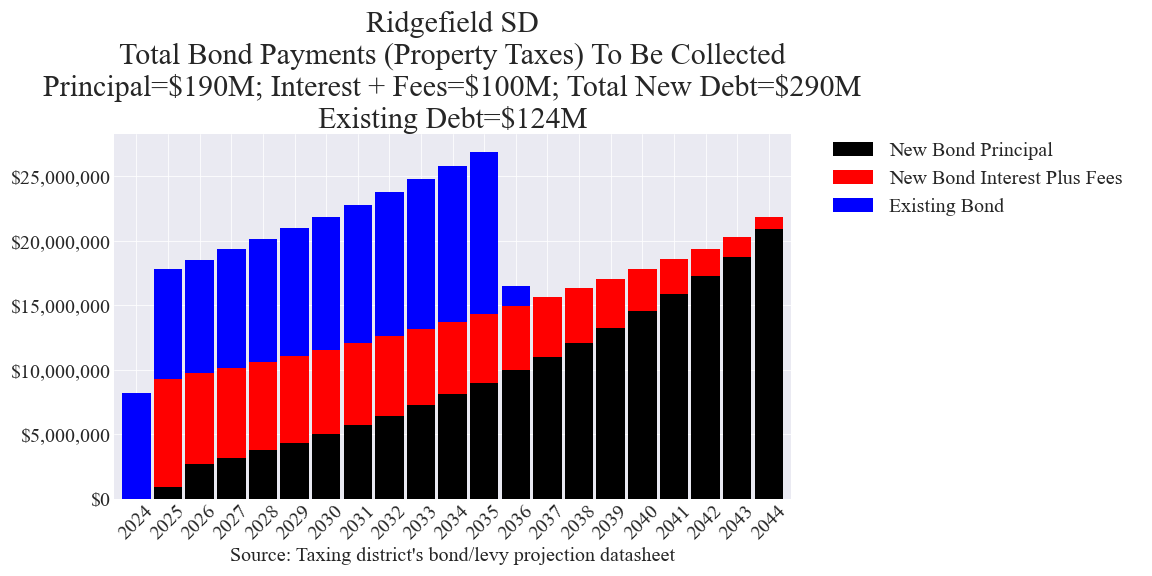
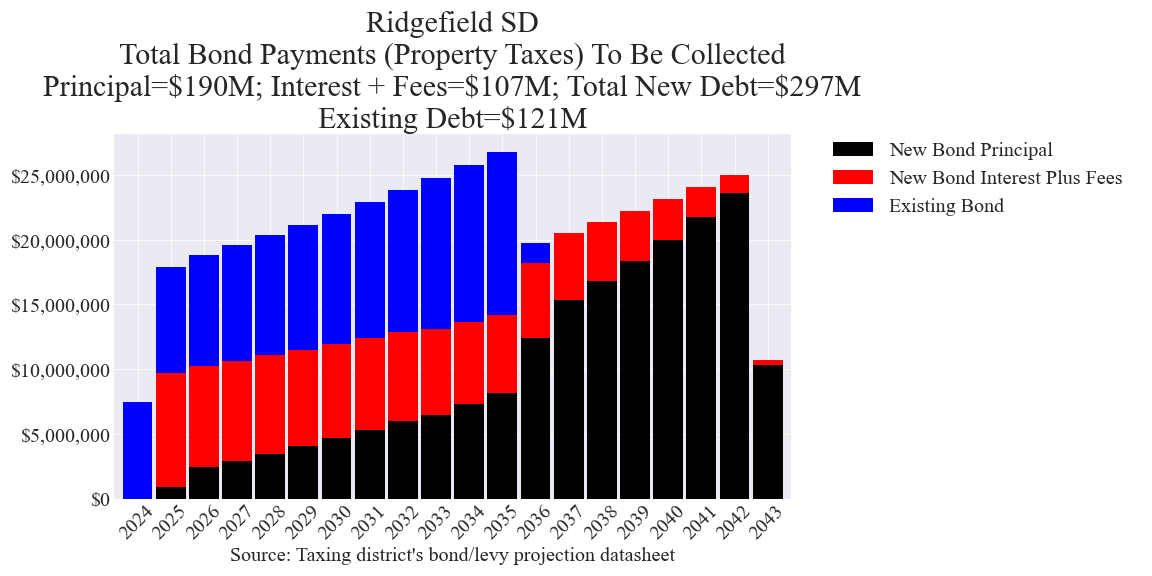
Updated election 20240423

diff --git a/_includes/cost_estimates/20240423/Ridgefield_20240423_Enhanced.html b/_includes/cost_estimates/20240423/Ridgefield_20240423_Enhanced.html
@@ -11,18 +11,18 @@
 	//var data;
 	var dataParcel;
 	
-	totalBondAV = 7063922197;
+	totalBondAV = 7072726000;
 	sampleParcelAV = 500000;
 	sampleParcelAVMin = 100000;
 	sampleParcelAVMax = 2000000;
 	totalBondPrincipal = 190000000;
-	totalBondInterest = 100000000;
+	totalBondInterest = 106639000;
 	totalBondCost = totalBondPrincipal + totalBondInterest;
 	sampleParcelPOF = sampleParcelAV / totalBondAV;
 	totalBondCostParcel = 0;
 	totalBondPrincipalParcel = 0;
 	totalBondInterestParcel = 0;
-	bondYears = 20;
+	bondYears = 19;
 	averageTotalBondCostParcel = 0;
 	// Correction factor for February elections
 	pofYear = 0
@@ -39,26 +39,25 @@
 		data.addColumn('number', 'Interest + Fees');
 
 		data.addRows([
-			['2025', 932000.000000002, 8368000.0],
-			['2026', 2651493.2, 7059566.8],
-			['2027', 3178494.17364, 6961794.67836],
-			['2028', 3744193.64961311, 6844295.96964529],
-			['2029', 4350887.03470868, 6705613.82572094],
-			['2030', 5000993.62883039, 6544204.56963022],
-			['2031', 5697062.97031939, 6358432.98851318],
-			['2032', 6441781.4957474, 6146567.38446557],
-			['2033', 7237979.52942181, 5906774.37129658],
-			['2034', 8088638.61857248, 5637113.40455766],
-			['2035', 8996899.23095123, 5335531.03160126],
-			['2036', 9966068.83237229, 4999854.84778502],
-			['2037', 10999630.3625571, 4627787.14426316],
-			['2038', 12101251.128521, 4216898.23210068],
-			['2039', 13274792.135655, 3764619.42670625],
-			['2040', 14524317.8776131, 3268235.67580444],
-			['2041', 15854106.6071227, 2724877.81335591],
-			['2042', 17268661.1108804, 2131514.42098339],
-			['2043', 18772720.0128024, 1484943.27756977],
-			['2044', 20918028.0, 927836.09233734],
+			['2025', 883000.0, 8818000.0],
+			['2026', 2427202.0, 7832798.0],
+			['2027', 2925213.0, 7733787.0],
+			['2028', 3459782.0, 7614218.0],
+			['2029', 4031422.0, 7472578.0],
+			['2030', 4647673.0, 7307327.0],
+			['2031', 5305358.0, 7116642.0],
+			['2032', 6007203.0, 6898797.0],
+			['2033', 6483035.0, 6651965.0],
+			['2034', 7275124.0, 6384876.0],
+			['2035', 8124960.0, 6085040.0],
+			['2036', 12441919.0, 5750081.0],
+			['2037', 15309358.0, 5231642.0],
+			['2038', 16767289.0, 4597711.0],
+			['2039', 18313677.0, 3903323.0],
+			['2040', 19961186.0, 3144814.0],
+			['2041', 21713007.0, 2317993.0],
+			['2042', 23572485.0, 1418515.0],
+			['2043', 10351108.0, 358892.0],
 
 		]);
 
@@ -112,7 +111,7 @@
 		table_data.addColumn('number', 'Value');
 		table_data.addRows([
 			['Total cost', totalBondCostParcel],
-			['Average cost per year for 20 years', averageTotalBondCostParcel],
+			['Average cost per year for 19 years', averageTotalBondCostParcel],
 			['Total principal cost', totalBondPrincipalParcel],
 			['Total interest + fees cost', totalBondInterestParcel],
 		]);
@@ -166,27 +165,26 @@
 		data5.addColumn('number', 'Non School');
 
 		data5.addRows([
-			['2024', 8167000, 0, 0, 0, 0, 0, 0, 0, 8783000, 0, 0, 15910498, 28809544],
-			['2025', 8495000, 9300000, 0, 0, 0, 0, 0, 0, 9134000, 0, 0, 0, 0],
-			['2026', 8834000, 9711060, 0, 0, 0, 0, 0, 0, 0, 0, 9500000, 0, 0],
-			['2027', 9187000, 10140288, 0, 0, 0, 0, 0, 0, 0, 0, 9880000, 0, 0],
-			['2028', 9555000, 10588489, 0, 0, 0, 0, 0, 0, 0, 0, 10275000, 0, 0],
-			['2029', 9938000, 11056500, 0, 0, 0, 0, 0, 0, 0, 0, 10686000, 0, 0],
-			['2030', 10336000, 11545198, 0, 0, 0, 0, 0, 0, 0, 0, 11113000, 0, 0],
-			['2031', 10747000, 12055495, 0, 0, 0, 0, 0, 0, 0, 0, 11558000, 0, 0],
-			['2032', 11180000, 12588348, 0, 0, 0, 0, 0, 0, 0, 0, 12020000, 0, 0],
-			['2033', 11625000, 13144753, 0, 0, 0, 0, 0, 0, 0, 0, 12501000, 0, 0],
-			['2034', 12090000, 13725752, 0, 0, 0, 0, 0, 0, 0, 0, 13001000, 0, 0],
-			['2035', 12571000, 14332430, 0, 0, 0, 0, 0, 0, 0, 0, 13521000, 0, 0],
-			['2036', 1560000, 14965923, 0, 0, 0, 0, 0, 0, 0, 0, 14062000, 0, 0],
-			['2037', 0, 15627417, 0, 0, 0, 0, 0, 0, 0, 0, 14624000, 0, 0],
-			['2038', 0, 16318149, 0, 0, 0, 0, 0, 0, 0, 0, 15209000, 0, 0],
-			['2039', 0, 17039411, 0, 0, 0, 0, 0, 0, 0, 0, 15817000, 0, 0],
-			['2040', 0, 17792553, 0, 0, 0, 0, 0, 0, 0, 0, 16450000, 0, 0],
-			['2041', 0, 18578984, 0, 0, 0, 0, 0, 0, 0, 0, 17108000, 0, 0],
-			['2042', 0, 19400175, 0, 0, 0, 0, 0, 0, 0, 0, 17792000, 0, 0],
-			['2043', 0, 20257663, 0, 0, 0, 0, 0, 0, 0, 0, 18503680, 0, 0],
-			['2044', 0, 21845864, 0, 0, 0, 0, 0, 0, 0, 0, 19243827, 0, 0],
+			['2024', 7500000, 0, 0, 0, 0, 0, 0, 0, 10412000, 0, 0, 15910498, 28809544],
+			['2025', 8217000, 9701000, 0, 0, 0, 0, 0, 0, 11245000, 0, 0, 0, 0],
+			['2026', 8557000, 10260000, 0, 0, 0, 0, 0, 0, 0, 0, 11807000, 0, 0],
+			['2027', 8909000, 10659000, 0, 0, 0, 0, 0, 0, 0, 0, 12280000, 0, 0],
+			['2028', 9276000, 11074000, 0, 0, 0, 0, 0, 0, 0, 0, 12771000, 0, 0],
+			['2029', 9662000, 11504000, 0, 0, 0, 0, 0, 0, 0, 0, 13282000, 0, 0],
+			['2030', 10057000, 11955000, 0, 0, 0, 0, 0, 0, 0, 0, 13813000, 0, 0],
+			['2031', 10471000, 12422000, 0, 0, 0, 0, 0, 0, 0, 0, 14365000, 0, 0],
+			['2032', 10900000, 12906000, 0, 0, 0, 0, 0, 0, 0, 0, 14940000, 0, 0],
+			['2033', 11625000, 13135000, 0, 0, 0, 0, 0, 0, 0, 0, 15538000, 0, 0],
+			['2034', 12090000, 13660000, 0, 0, 0, 0, 0, 0, 0, 0, 16159000, 0, 0],
+			['2035', 12571000, 14210000, 0, 0, 0, 0, 0, 0, 0, 0, 16805000, 0, 0],
+			['2036', 1560000, 18192000, 0, 0, 0, 0, 0, 0, 0, 0, 17478000, 0, 0],
+			['2037', 0, 20541000, 0, 0, 0, 0, 0, 0, 0, 0, 18177000, 0, 0],
+			['2038', 0, 21365000, 0, 0, 0, 0, 0, 0, 0, 0, 18904000, 0, 0],
+			['2039', 0, 22217000, 0, 0, 0, 0, 0, 0, 0, 0, 19660000, 0, 0],
+			['2040', 0, 23106000, 0, 0, 0, 0, 0, 0, 0, 0, 20446000, 0, 0],
+			['2041', 0, 24031000, 0, 0, 0, 0, 0, 0, 0, 0, 21264000, 0, 0],
+			['2042', 0, 24991000, 0, 0, 0, 0, 0, 0, 0, 0, 22115000, 0, 0],
+			['2043', 0, 10710000, 0, 0, 0, 0, 0, 0, 0, 0, 22999000, 0, 0],
 
 		]);
 
@@ -285,27 +283,26 @@
 		data6.addColumn('number', 'Non School');
 
 		data6.addRows([
-			['2024', 8167000, 0, 0, 0, 0, 0, 0, 0, 8783000, 0, 0, 15910498, 28809544],
-			['2025', 8495000, 9300000, 0, 0, 0, 0, 0, 0, 9134000, 0, 0, 0, 0],
-			['2026', 8834000, 9711060, 0, 0, 0, 0, 0, 0, 0, 0, 9500000, 0, 0],
-			['2027', 9187000, 10140288, 0, 0, 0, 0, 0, 0, 0, 0, 9880000, 0, 0],
-			['2028', 9555000, 10588489, 0, 0, 0, 0, 0, 0, 0, 0, 10275000, 0, 0],
-			['2029', 9938000, 11056500, 0, 0, 0, 0, 0, 0, 0, 0, 10686000, 0, 0],
-			['2030', 10336000, 11545198, 0, 0, 0, 0, 0, 0, 0, 0, 11113000, 0, 0],
-			['2031', 10747000, 12055495, 0, 0, 0, 0, 0, 0, 0, 0, 11558000, 0, 0],
-			['2032', 11180000, 12588348, 0, 0, 0, 0, 0, 0, 0, 0, 12020000, 0, 0],
-			['2033', 11625000, 13144753, 0, 0, 0, 0, 0, 0, 0, 0, 12501000, 0, 0],
-			['2034', 12090000, 13725752, 0, 0, 0, 0, 0, 0, 0, 0, 13001000, 0, 0],
-			['2035', 12571000, 14332430, 0, 0, 0, 0, 0, 0, 0, 0, 13521000, 0, 0],
-			['2036', 1560000, 14965923, 0, 0, 0, 0, 0, 0, 0, 0, 14062000, 0, 0],
-			['2037', 0, 15627417, 0, 0, 0, 0, 0, 0, 0, 0, 14624000, 0, 0],
-			['2038', 0, 16318149, 0, 0, 0, 0, 0, 0, 0, 0, 15209000, 0, 0],
-			['2039', 0, 17039411, 0, 0, 0, 0, 0, 0, 0, 0, 15817000, 0, 0],
-			['2040', 0, 17792553, 0, 0, 0, 0, 0, 0, 0, 0, 16450000, 0, 0],
-			['2041', 0, 18578984, 0, 0, 0, 0, 0, 0, 0, 0, 17108000, 0, 0],
-			['2042', 0, 19400175, 0, 0, 0, 0, 0, 0, 0, 0, 17792000, 0, 0],
-			['2043', 0, 20257663, 0, 0, 0, 0, 0, 0, 0, 0, 18503680, 0, 0],
-			['2044', 0, 21845864, 0, 0, 0, 0, 0, 0, 0, 0, 19243827, 0, 0],
+			['2024', 7500000, 0, 0, 0, 0, 0, 0, 0, 10412000, 0, 0, 15910498, 28809544],
+			['2025', 8217000, 9701000, 0, 0, 0, 0, 0, 0, 11245000, 0, 0, 0, 0],
+			['2026', 8557000, 10260000, 0, 0, 0, 0, 0, 0, 0, 0, 11807000, 0, 0],
+			['2027', 8909000, 10659000, 0, 0, 0, 0, 0, 0, 0, 0, 12280000, 0, 0],
+			['2028', 9276000, 11074000, 0, 0, 0, 0, 0, 0, 0, 0, 12771000, 0, 0],
+			['2029', 9662000, 11504000, 0, 0, 0, 0, 0, 0, 0, 0, 13282000, 0, 0],
+			['2030', 10057000, 11955000, 0, 0, 0, 0, 0, 0, 0, 0, 13813000, 0, 0],
+			['2031', 10471000, 12422000, 0, 0, 0, 0, 0, 0, 0, 0, 14365000, 0, 0],
+			['2032', 10900000, 12906000, 0, 0, 0, 0, 0, 0, 0, 0, 14940000, 0, 0],
+			['2033', 11625000, 13135000, 0, 0, 0, 0, 0, 0, 0, 0, 15538000, 0, 0],
+			['2034', 12090000, 13660000, 0, 0, 0, 0, 0, 0, 0, 0, 16159000, 0, 0],
+			['2035', 12571000, 14210000, 0, 0, 0, 0, 0, 0, 0, 0, 16805000, 0, 0],
+			['2036', 1560000, 18192000, 0, 0, 0, 0, 0, 0, 0, 0, 17478000, 0, 0],
+			['2037', 0, 20541000, 0, 0, 0, 0, 0, 0, 0, 0, 18177000, 0, 0],
+			['2038', 0, 21365000, 0, 0, 0, 0, 0, 0, 0, 0, 18904000, 0, 0],
+			['2039', 0, 22217000, 0, 0, 0, 0, 0, 0, 0, 0, 19660000, 0, 0],
+			['2040', 0, 23106000, 0, 0, 0, 0, 0, 0, 0, 0, 20446000, 0, 0],
+			['2041', 0, 24031000, 0, 0, 0, 0, 0, 0, 0, 0, 21264000, 0, 0],
+			['2042', 0, 24991000, 0, 0, 0, 0, 0, 0, 0, 0, 22115000, 0, 0],
+			['2043', 0, 10710000, 0, 0, 0, 0, 0, 0, 0, 0, 22999000, 0, 0],
 
 		]);
 

diff --git a/pagesManual/LeviesReport/20240423/report_capital_levy_details_20240423.md b/pagesManual/LeviesReport/20240423/report_capital_levy_details_20240423.md
@@ -1,0 +1,25 @@
+---
+layout: page
+title: Capital Levy Details April 23rd 2024
+permalink: report_capital_levy_details_20240423
+---
+
+
+### King County Kent SD
+
+![Kent SD capital levy totals chart](pagesManual/LeviesReport/20240423/KentCapital.png "Kent SD capital levy totals chart")
+![Kent SD capital levy example parcel chart](pagesManual/LeviesReport/20240423/KentCapitalParcel.png "Kent SD capital levy example parcel chart")
+
+[Link to the interactive calculator](calculator_kent_capital_20240423_enhanced){:target="_blank" rel="noopener"}
+
+___
+
+### Snohomish County Lakewood SD
+
+![Lakewood SD capital levy totals chart](pagesManual/LeviesReport/20240423/LakewoodCapital.png "Lakewood SD capital levy totals chart")
+![Lakewood SD capital levy example parcel chart](pagesManual/LeviesReport/20240423/LakewoodCapitalParcel.png "Lakewood SD capital levy example parcel chart")
+
+[Link to the interactive calculator](calculator_lakewood_capital_20240423_enhanced){:target="_blank" rel="noopener"}
+
+___
+

diff --git a/pagesManual/LeviesReport/20240423/report_enrichment_levy_details_20240423.md b/pagesManual/LeviesReport/20240423/report_enrichment_levy_details_20240423.md
@@ -1,0 +1,25 @@
+---
+layout: page
+title: Enrichment Levy Details April 23rd 2024
+permalink: report_enrichment_levy_details_20240423
+---
+
+
+### Snohomish County Lakewood SD
+
+![Lakewood SD enrichment levy totals chart](pagesManual/LeviesReport/20240423/LakewoodEnrichment.png "Lakewood SD enrichment levy totals chart")
+![Lakewood SD enrichment levy example parcel chart](pagesManual/LeviesReport/20240423/LakewoodEnrichmentParcel.png "Lakewood SD enrichment levy example parcel chart")
+
+[Link to the interactive calculator](20240423){:target="_blank" rel="noopener"}
+
+___
+
+### Walla Walla County Dixie SD
+
+![Dixie SD enrichment levy totals chart](pagesManual/LeviesReport/20240423/DixieEnrichment.png "Dixie SD enrichment levy totals chart")
+![Dixie SD enrichment levy example parcel chart](pagesManual/LeviesReport/20240423/DixieEnrichmentParcel.png "Dixie SD enrichment levy example parcel chart")
+
+[Link to the interactive calculator](20240423){:target="_blank" rel="noopener"}
+
+___
+

diff --git a/pagesManual/LeviesReport/report_levies_20240423.md b/pagesManual/LeviesReport/report_levies_20240423.md
@@ -4,7 +4,7 @@ title: School District Tax Measures April 23rd 2024
 permalink: report_levies_20240423
 ---
 
-Last updated: February 28th, 2024
+Last updated: March 6th, 2024
 
 As analyses are completed, summary results will be provided on this page.
 
@@ -55,13 +55,20 @@ ___
 
 [Snohomish](snohomishcountymeasures20240423)
 
+[Walla Walla](wallawallacountymeasures20240423)
+
+
 ### All bonds
 
+[Link to the details for all bonds](report_bond_details_20240423)
 
 ### All enrichment levies
 
+[Link to the details for all enrichment levies](report_enrichment_levy_details_20240423)
 
 ### All capital levies
+
+[Link to the details for all capital levies](report_capital_levy_details_20240423)
 
 ___
 

diff --git a/pagesManual/LeviesReport/20240423/report_bond_details_20240423.md b/pagesManual/LeviesReport/20240423/report_bond_details_20240423.md
@@ -1,0 +1,13 @@
+---
+layout: page
+title: School District Bond Details April 23rd 2024
+permalink: report_bond_details_20240423
+---
+
+
+### Clark County Ridgefield SD
+
+![Ridgefield SD bond totals chart](pagesManual/LeviesReport/20240423/Ridgefield.png "Ridgefield SD bond totals chart")
+![Ridgefield SD bond example parcel chart](pagesManual/LeviesReport/20240423/RidgefieldParcel.png "Ridgefield SD bond example parcel chart")
+
+[Link to the interactive calculator](calculator_ridgefield_20240423_enhanced){:target="_blank" rel="noopener"}
